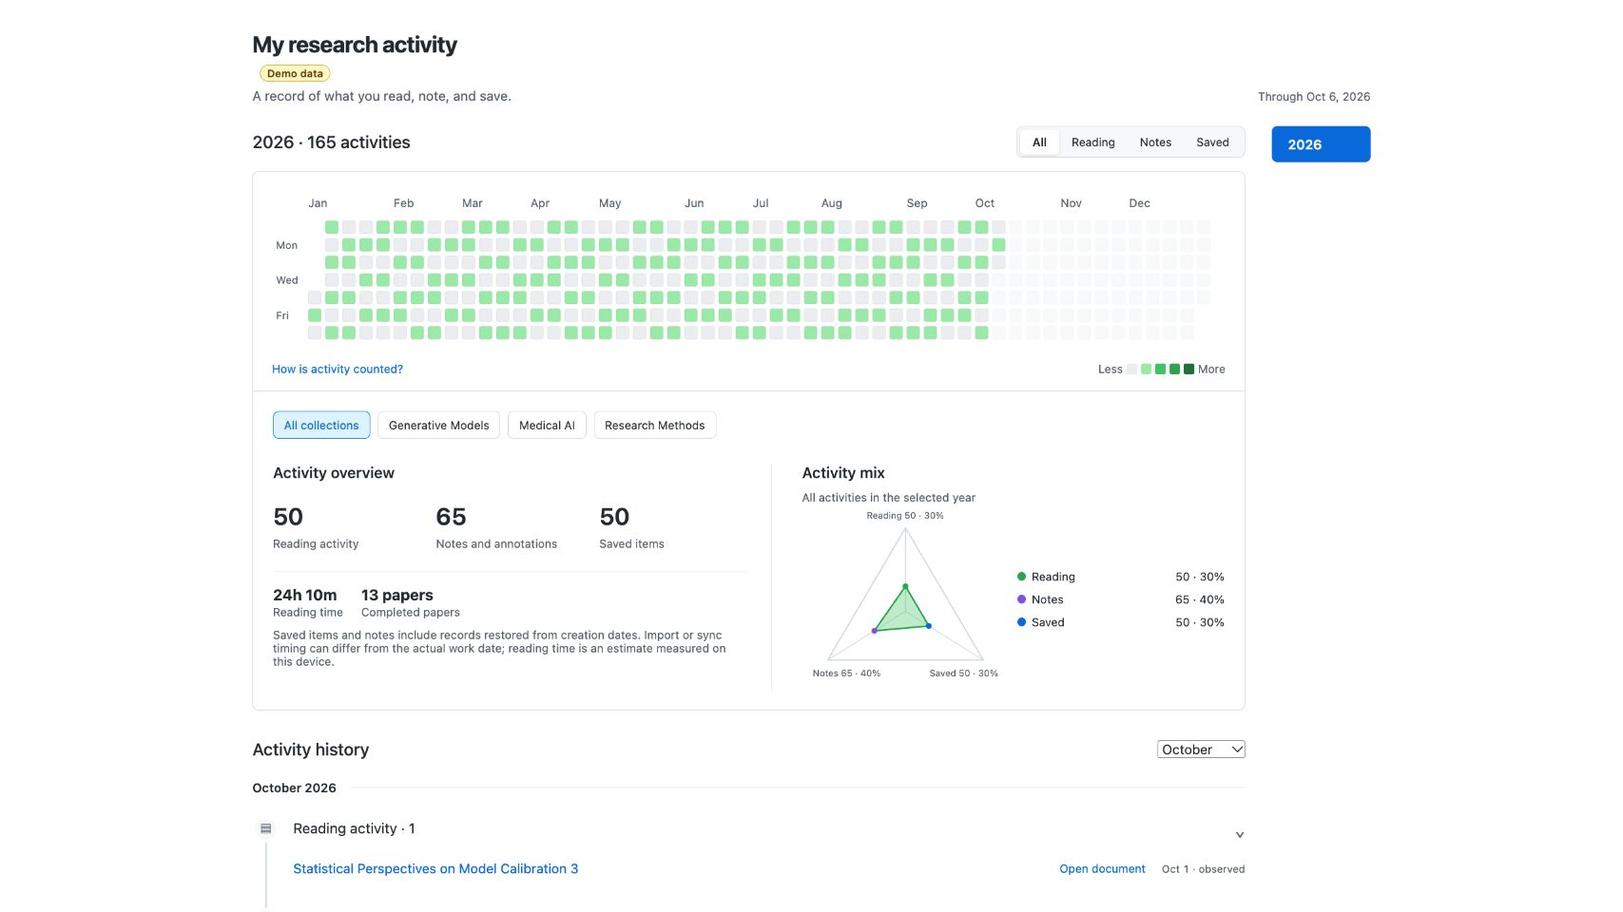
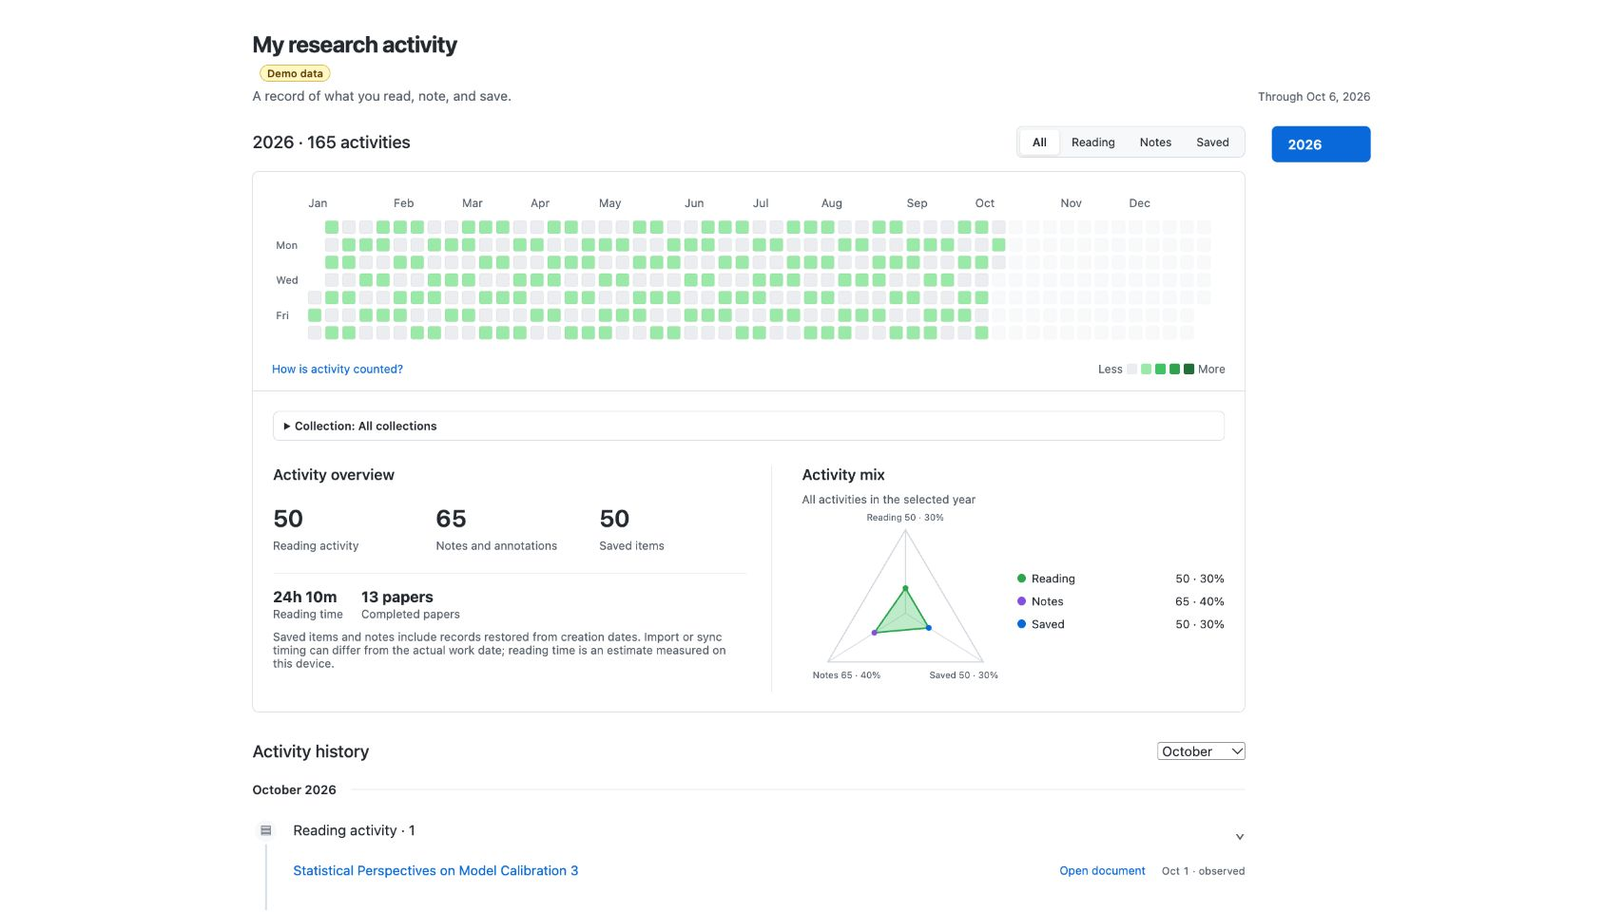
feat: add hierarchical collection picker

diff --git a/activity.css b/activity.css
@@ -1,1 +1,1 @@
-:root{--ra-ink:#24292f;--ra-muted:#57606a;--ra-line:#d0d7de;--ra-soft:#f6f8fa;--ra-blue:#0969da;--ra-green-0:#ebedf0;--ra-green-1:#9be9a8;--ra-green-2:#40c463;--ra-green-3:#30a14e;--ra-green-4:#216e39;--ra-note:#8250df;--ra-save:#0969da}*{box-sizing:border-box}body{margin:0;background:#fff;color:var(--ra-ink);font:14px -apple-system,BlinkMacSystemFont,"Segoe UI",sans-serif}button,select{font:inherit;color:inherit;cursor:pointer}button:focus-visible,select:focus-visible,a:focus-visible{outline:3px solid var(--ra-blue);outline-offset:2px}.ra-page{max-width:1240px;margin:0 auto;padding:32px}.ra-heading{display:flex;align-items:end;justify-content:space-between;gap:20px;margin-bottom:24px}.ra-heading h1{font-size:24px;letter-spacing:-.5px;margin:0 0 7px}.ra-heading p{margin:0;color:var(--ra-muted)}.ra-layout{display:grid;grid-template-columns:minmax(0,1fr) 104px;gap:28px}.ra-topline,.ra-timeline-head{display:flex;align-items:center;justify-content:space-between;gap:16px;margin-bottom:14px}.ra-topline h2,.ra-timeline-head h2{font-size:18px;font-weight:500;margin:0}.ra-filters{display:flex;padding:3px;border:1px solid var(--ra-line);border-radius:7px;background:var(--ra-soft)}.ra-filters button{border:0;border-radius:4px;background:transparent;padding:6px 13px;font-size:12px}.ra-filters button[aria-pressed="true"]{background:#fff;box-shadow:0 1px 3px #0002;font-weight:600}.ra-panel{border:1px solid var(--ra-line);border-radius:7px;overflow:hidden}.ra-heatmap{padding:23px 20px 16px}.ra-calendar{overflow-x:auto}.ra-calendar svg{display:block;width:100%;min-width:720px}.ra-calendar-cell{cursor:pointer;stroke:#1f23280d;stroke-width:1}.ra-calendar-cell:hover,.ra-calendar-cell:focus{stroke:var(--ra-ink);stroke-width:1.5;outline:none}.ra-calendar-cell[data-selected="true"]{stroke:var(--ra-blue);stroke-width:2}.ra-calendar-cell[data-future="true"]{cursor:default;opacity:.35}.ra-legend-row{display:flex;justify-content:space-between;align-items:center;gap:10px;margin-top:13px;color:var(--ra-muted);font-size:12px}.ra-legend{display:flex;align-items:center;gap:4px;white-space:nowrap}.ra-swatch{width:11px;height:11px;border-radius:2px}.ra-link{border:0;padding:0;background:transparent;color:var(--ra-blue)}.ra-overview{border-top:1px solid var(--ra-line);padding:21px}.ra-collections{display:flex;gap:8px;flex-wrap:wrap;margin-bottom:26px}.ra-chip,.ra-button{border:1px solid var(--ra-line);border-radius:6px;background:#fff;padding:7px 11px;font-size:12px}.ra-chip[aria-pressed="true"]{border-color:var(--ra-blue);background:#ddf4ff;color:var(--ra-blue)}.ra-summary{display:grid;grid-template-columns:1.18fr 1fr;gap:32px}.ra-summary-left{border-right:1px solid var(--ra-line);padding-right:25px}.ra-summary h3{font-size:16px;font-weight:550;margin:0}.ra-stats{display:grid;grid-template-columns:repeat(3,1fr);gap:16px;margin:22px 0}.ra-stat b{display:block;font-size:25px;font-weight:600;font-variant-numeric:tabular-nums;margin-bottom:5px}.ra-stat span,.ra-small{font-size:12px;color:var(--ra-muted)}.ra-completion{display:flex;gap:19px;border-top:1px solid #eaeef2;padding-top:15px}.ra-completion b{display:block;font-size:16px}.ra-ratio-copy{margin:10px 0 0;color:var(--ra-muted);font-size:12px}.ra-triangle-wrap{display:grid;grid-template-columns:minmax(210px,1fr) minmax(160px,1fr);align-items:center;gap:9px;margin-top:4px}.ra-triangle{width:100%;max-width:275px;margin:auto}.ra-triangle text{font-size:11px;fill:var(--ra-muted)}.ra-ratio-list{display:grid;gap:10px}.ra-ratio-item{display:flex;justify-content:space-between;gap:8px;font-size:12px}.ra-ratio-item i{display:inline-block;width:9px;height:9px;border-radius:50%;margin-right:6px}.ra-years button{display:block;width:100%;border:0;border-radius:6px;background:none;text-align:left;padding:11px 17px;margin-bottom:7px;color:var(--ra-muted)}.ra-years button[aria-pressed="true"]{background:var(--ra-blue);color:#fff;font-weight:600}.ra-timeline{margin-top:30px}.ra-month{display:flex;align-items:center;gap:15px;font-size:13px;font-weight:600;margin:22px 0}.ra-month:after{content:"";height:1px;background:var(--ra-line);flex:1}.ra-event{position:relative;margin-left:13px;padding:0 0 25px 28px;border-left:2px solid #d8dee4}.ra-event-icon{position:absolute;left:-15px;top:0;width:28px;height:28px;border:3px solid #fff;border-radius:50%;background:var(--ra-soft);display:grid;place-items:center;color:var(--ra-muted)}.ra-event summary{display:flex;justify-content:space-between;gap:10px;cursor:pointer;padding-top:4px;font-size:15px;list-style:none}.ra-event summary:after{content:"⌄";font-size:18px;color:var(--ra-muted)}.ra-activity-list{margin-top:13px}.ra-activity{display:grid;grid-template-columns:minmax(0,1fr) auto auto;align-items:center;gap:14px;padding:7px 0}.ra-activity-title{border:0;background:transparent;padding:0;text-align:left;color:var(--ra-blue);white-space:nowrap;overflow:hidden;text-overflow:ellipsis}.ra-action{border:0;background:transparent;color:var(--ra-blue);font-size:12px;padding:3px}.ra-date{font-size:11px;color:var(--ra-muted);font-variant-numeric:tabular-nums}.ra-empty,.ra-error{padding:26px 0;color:var(--ra-muted)}.ra-error{color:#cf222e}.ra-error .ra-button{margin-left:12px}.ra-dialog{border:1px solid var(--ra-line);border-radius:10px;max-width:520px;padding:24px;box-shadow:0 15px 70px #0002}.ra-dialog::backdrop{background:#1f23284d}.ra-dialog h3{margin-top:0}.ra-dialog p{line-height:1.6;color:var(--ra-muted)}.ra-dialog .ra-button{float:right}.ra-tooltip{position:fixed;display:none;z-index:4;pointer-events:none;padding:8px 10px;background:#24292f;color:#fff;border-radius:6px;font-size:12px;box-shadow:0 3px 12px #0002}.ra-hidden{display:none!important}@media(max-width:900px){.ra-page{padding:22px 18px}.ra-heading{align-items:start;flex-direction:column}.ra-layout{grid-template-columns:1fr;gap:12px}.ra-years{display:flex;gap:8px;overflow-x:auto;grid-row:1}.ra-years button{width:auto;padding:8px 18px;white-space:nowrap}.ra-topline{align-items:start;flex-direction:column}.ra-summary{grid-template-columns:1fr;gap:24px}.ra-summary-left{padding:0;border-right:0}.ra-triangle-wrap{grid-template-columns:1fr}.ra-heatmap{padding:19px 13px}.ra-stats{gap:10px}.ra-calendar-cell{min-height:12px}}
+:root{--ra-ink:#24292f;--ra-muted:#57606a;--ra-line:#d0d7de;--ra-soft:#f6f8fa;--ra-blue:#0969da;--ra-green-0:#ebedf0;--ra-green-1:#9be9a8;--ra-green-2:#40c463;--ra-green-3:#30a14e;--ra-green-4:#216e39;--ra-note:#8250df;--ra-save:#0969da}*{box-sizing:border-box}body{margin:0;background:#fff;color:var(--ra-ink);font:14px -apple-system,BlinkMacSystemFont,"Segoe UI",sans-serif}button,select{font:inherit;color:inherit;cursor:pointer}button:focus-visible,select:focus-visible,a:focus-visible{outline:3px solid var(--ra-blue);outline-offset:2px}.ra-page{max-width:1240px;margin:0 auto;padding:32px}.ra-heading{display:flex;align-items:end;justify-content:space-between;gap:20px;margin-bottom:24px}.ra-heading h1{font-size:24px;letter-spacing:-.5px;margin:0 0 7px}.ra-heading p{margin:0;color:var(--ra-muted)}.ra-layout{display:grid;grid-template-columns:minmax(0,1fr) 104px;gap:28px}.ra-topline,.ra-timeline-head{display:flex;align-items:center;justify-content:space-between;gap:16px;margin-bottom:14px}.ra-topline h2,.ra-timeline-head h2{font-size:18px;font-weight:500;margin:0}.ra-filters{display:flex;padding:3px;border:1px solid var(--ra-line);border-radius:7px;background:var(--ra-soft)}.ra-filters button{border:0;border-radius:4px;background:transparent;padding:6px 13px;font-size:12px}.ra-filters button[aria-pressed="true"]{background:#fff;box-shadow:0 1px 3px #0002;font-weight:600}.ra-panel{border:1px solid var(--ra-line);border-radius:7px;overflow:hidden}.ra-heatmap{padding:23px 20px 16px}.ra-calendar{overflow-x:auto}.ra-calendar svg{display:block;width:100%;min-width:720px}.ra-calendar-cell{cursor:pointer;stroke:#1f23280d;stroke-width:1}.ra-calendar-cell:hover,.ra-calendar-cell:focus{stroke:var(--ra-ink);stroke-width:1.5;outline:none}.ra-calendar-cell[data-selected="true"]{stroke:var(--ra-blue);stroke-width:2}.ra-calendar-cell[data-future="true"]{cursor:default;opacity:.35}.ra-legend-row{display:flex;justify-content:space-between;align-items:center;gap:10px;margin-top:13px;color:var(--ra-muted);font-size:12px}.ra-legend{display:flex;align-items:center;gap:4px;white-space:nowrap}.ra-swatch{width:11px;height:11px;border-radius:2px}.ra-link{border:0;padding:0;background:transparent;color:var(--ra-blue)}.ra-overview{border-top:1px solid var(--ra-line);padding:21px}.ra-collections{display:flex;gap:8px;flex-wrap:wrap;margin-bottom:26px}.ra-chip,.ra-button{border:1px solid var(--ra-line);border-radius:6px;background:#fff;padding:7px 11px;font-size:12px}.ra-chip[aria-pressed="true"]{border-color:var(--ra-blue);background:#ddf4ff;color:var(--ra-blue)}.ra-summary{display:grid;grid-template-columns:1.18fr 1fr;gap:32px}.ra-summary-left{border-right:1px solid var(--ra-line);padding-right:25px}.ra-summary h3{font-size:16px;font-weight:550;margin:0}.ra-stats{display:grid;grid-template-columns:repeat(3,1fr);gap:16px;margin:22px 0}.ra-stat b{display:block;font-size:25px;font-weight:600;font-variant-numeric:tabular-nums;margin-bottom:5px}.ra-stat span,.ra-small{font-size:12px;color:var(--ra-muted)}.ra-completion{display:flex;gap:19px;border-top:1px solid #eaeef2;padding-top:15px}.ra-completion b{display:block;font-size:16px}.ra-ratio-copy{margin:10px 0 0;color:var(--ra-muted);font-size:12px}.ra-triangle-wrap{display:grid;grid-template-columns:minmax(210px,1fr) minmax(160px,1fr);align-items:center;gap:9px;margin-top:4px}.ra-triangle{width:100%;max-width:275px;margin:auto}.ra-triangle text{font-size:11px;fill:var(--ra-muted)}.ra-ratio-list{display:grid;gap:10px}.ra-ratio-item{display:flex;justify-content:space-between;gap:8px;font-size:12px}.ra-ratio-item i{display:inline-block;width:9px;height:9px;border-radius:50%;margin-right:6px}.ra-years button{display:block;width:100%;border:0;border-radius:6px;background:none;text-align:left;padding:11px 17px;margin-bottom:7px;color:var(--ra-muted)}.ra-years button[aria-pressed="true"]{background:var(--ra-blue);color:#fff;font-weight:600}.ra-timeline{margin-top:30px}.ra-month{display:flex;align-items:center;gap:15px;font-size:13px;font-weight:600;margin:22px 0}.ra-month:after{content:"";height:1px;background:var(--ra-line);flex:1}.ra-event{position:relative;margin-left:13px;padding:0 0 25px 28px;border-left:2px solid #d8dee4}.ra-event-icon{position:absolute;left:-15px;top:0;width:28px;height:28px;border:3px solid #fff;border-radius:50%;background:var(--ra-soft);display:grid;place-items:center;color:var(--ra-muted)}.ra-event summary{display:flex;justify-content:space-between;gap:10px;cursor:pointer;padding-top:4px;font-size:15px;list-style:none}.ra-event summary:after{content:"⌄";font-size:18px;color:var(--ra-muted)}.ra-activity-list{margin-top:13px}.ra-activity{display:grid;grid-template-columns:minmax(0,1fr) auto auto;align-items:center;gap:14px;padding:7px 0}.ra-activity-title{border:0;background:transparent;padding:0;text-align:left;color:var(--ra-blue);white-space:nowrap;overflow:hidden;text-overflow:ellipsis}.ra-action{border:0;background:transparent;color:var(--ra-blue);font-size:12px;padding:3px}.ra-date{font-size:11px;color:var(--ra-muted);font-variant-numeric:tabular-nums}.ra-empty,.ra-error{padding:26px 0;color:var(--ra-muted)}.ra-error{color:#cf222e}.ra-error .ra-button{margin-left:12px}.ra-dialog{border:1px solid var(--ra-line);border-radius:10px;max-width:520px;padding:24px;box-shadow:0 15px 70px #0002}.ra-dialog::backdrop{background:#1f23284d}.ra-dialog h3{margin-top:0}.ra-dialog p{line-height:1.6;color:var(--ra-muted)}.ra-dialog .ra-button{float:right}.ra-tooltip{position:fixed;display:none;z-index:4;pointer-events:none;padding:8px 10px;background:#24292f;color:#fff;border-radius:6px;font-size:12px;box-shadow:0 3px 12px #0002}.ra-hidden{display:none!important}@media(max-width:900px){.ra-page{padding:22px 18px}.ra-heading{align-items:start;flex-direction:column}.ra-layout{grid-template-columns:1fr;gap:12px}.ra-years{display:flex;gap:8px;overflow-x:auto;grid-row:1}.ra-years button{width:auto;padding:8px 18px;white-space:nowrap}.ra-topline{align-items:start;flex-direction:column}.ra-summary{grid-template-columns:1fr;gap:24px}.ra-summary-left{padding:0;border-right:0}.ra-triangle-wrap{grid-template-columns:1fr}.ra-heatmap{padding:19px 13px}.ra-stats{gap:10px}.ra-calendar-cell{min-height:12px}}.ra-collection-picker{display:block;margin:0 0 26px;border:1px solid var(--ra-line);border-radius:6px;background:#fff}.ra-collection-picker>summary{padding:8px 11px;cursor:pointer;font-size:12px;font-weight:600}.ra-collection-picker>summary:focus-visible,.ra-collection-branch>summary:focus-visible{outline:3px solid var(--ra-blue);outline-offset:2px}.ra-collection-choices{max-height:280px;overflow:auto;padding:6px 8px 8px;border-top:1px solid var(--ra-line)}.ra-collection-branch{margin:4px 0}.ra-collection-branch>summary{padding:6px 4px;cursor:pointer;font-size:12px}.ra-collection-select:hover,.ra-collection-select[aria-pressed="true"]{background:#ddf4ff!important;color:var(--ra-blue)}.ra-collection-branch-content{padding-left:16px}.ra-collection-select{display:block;width:100%;border:0;border-radius:4px;background:transparent;padding:6px 8px;text-align:left;font-size:12px}.ra-collection-picker summary:focus-visible,.ra-collection-branch summary:focus-visible{outline:3px solid var(--ra-blue);outline-offset:2px}

diff --git a/activityView.js b/activityView.js
@@ -6,7 +6,7 @@
     var snapshot;
     var handlers = {};
     var state = { year: null, collection: "all", type: "all", month: null, date: null };
-    var viewMemory = { scrollTop: 0, open: {} };
+    var viewMemory = { scrollTop: 0, open: {}, collectionPickerOpen: false, collectionBranches: {} };
     var labels = { all: "All", read: "Reading", note: "Notes", save: "Saved" };
     var colors = { read: "#2da44e", note: "#8250df", save: "#0969da" };
     var icons = { read: "▤", note: "✎", save: "＋" };
@@ -77,6 +77,12 @@
         Array.prototype.forEach.call(root.querySelectorAll("details[data-type]"), function (details) {
             viewMemory.open[details.getAttribute("data-type")] = details.open;
         });
+        var picker = root.querySelector("details[data-collection-picker]");
+        if (picker && !viewMemory.forceCollectionPickerClosed) viewMemory.collectionPickerOpen = picker.open;
+        viewMemory.collectionBranches = {};
+        Array.prototype.forEach.call(root.querySelectorAll("details[data-collection-branch]"), function (details) {
+            viewMemory.collectionBranches[details.getAttribute("data-collection-branch")] = details.open;
+        });
     }
     function set(next, save) {
         rememberView();
@@ -109,6 +115,30 @@
             });
         }
         return wanted;
+    }
+    function collectionTree() {
+        var byKey = {}, roots = [], children = {};
+        collections().forEach(function (collection) { byKey[collection.key] = collection; children[collection.key] = []; });
+        Object.keys(byKey).forEach(function (key) {
+            var collection = byKey[key], parent = byKey[collection.parentKey], cursor = collection.parentKey, seen = {};
+            while (cursor && byKey[cursor] && !seen[cursor]) { seen[cursor] = true; cursor = byKey[cursor].parentKey; }
+            if (parent && !seen[key]) children[collection.parentKey].push(collection);
+            else roots.push(collection);
+        });
+        function sort(items) { return items.sort(function (a, b) { return String(a.name || a.key).localeCompare(String(b.name || b.key)); }); }
+        Object.keys(children).forEach(function (key) { sort(children[key]); });
+        return { roots: sort(roots), children: children, byKey: byKey };
+    }
+    function collectionPath(key) {
+        if (key === "all") return "All collections";
+        var tree = collectionTree(), path = [], seen = {}, current = tree.byKey[key];
+        while (current && !seen[current.key]) { path.unshift(current.name || current.key); seen[current.key] = true; current = tree.byKey[current.parentKey]; }
+        return path.length ? path.join(" / ") : "All collections";
+    }
+    function collectionAncestors(key) {
+        var tree = collectionTree(), result = {}, seen = {}, current = tree.byKey[key];
+        while (current && !seen[current.key]) { result[current.key] = true; seen[current.key] = true; current = tree.byKey[current.parentKey]; }
+        return result;
     }
     function itemMap() {
         var map = {};
@@ -246,10 +276,7 @@
     }
     function buildOverview(panel) {
         var overview = node("section", { class: "ra-overview" });
-        var chips = node("div", { class: "ra-collections", "aria-label": "Collections" });
-        appendButton(chips, "All collections", { class: "ra-chip", "aria-pressed": state.collection === "all" }, function () { set({ collection: "all", date: null }); });
-        collections().forEach(function (collection) { appendButton(chips, collection.name || collection.key, { class: "ra-chip", "aria-pressed": state.collection === collection.key }, function () { set({ collection: collection.key, date: null }); }); });
-        overview.appendChild(chips);
+        overview.appendChild(buildCollectionPicker());
         var summary = node("div", { class: "ra-summary" });
         var left = node("div", { class: "ra-summary-left" });
         left.appendChild(node("h3", {}, "Activity overview"));
@@ -274,6 +301,36 @@
         summary.appendChild(ratio);
         overview.appendChild(summary);
         panel.appendChild(overview);
+    }
+    function chooseCollection(key) {
+        viewMemory.collectionPickerOpen = false;
+        viewMemory.forceCollectionPickerClosed = true;
+        set({ collection: key, date: null });
+        viewMemory.forceCollectionPickerClosed = false;
+    }
+    function buildCollectionPicker() {
+        var picker = node("details", { class: "ra-collection-picker", open: viewMemory.collectionPickerOpen, "data-collection-picker": "true" });
+        picker.appendChild(node("summary", {}, "Collection: " + collectionPath(state.collection)));
+        var choices = node("div", { class: "ra-collection-choices", "aria-label": "Collection picker" });
+        appendButton(choices, "All collections", { class: "ra-collection-select", "aria-pressed": state.collection === "all" }, function () { chooseCollection("all"); });
+        var tree = collectionTree(), ancestors = collectionAncestors(state.collection);
+        function appendBranch(container, collection) {
+            var childItems = tree.children[collection.key] || [];
+            if (!childItems.length) {
+                appendButton(container, collection.name || collection.key, { class: "ra-collection-select", "aria-pressed": state.collection === collection.key }, function () { chooseCollection(collection.key); });
+                return;
+            }
+            var open = ancestors[collection.key] || viewMemory.collectionBranches[collection.key];
+            var details = node("details", { class: "ra-collection-branch", open: !!open, "data-collection-branch": collection.key });
+            details.appendChild(node("summary", {}, collection.name || collection.key));
+            var content = node("div", { class: "ra-collection-branch-content" });
+            appendButton(content, "Select " + (collection.name || collection.key), { class: "ra-collection-select", "aria-pressed": state.collection === collection.key }, function () { chooseCollection(collection.key); });
+            childItems.forEach(function (child) { appendBranch(content, child); });
+            details.appendChild(content); container.appendChild(details);
+        }
+        tree.roots.forEach(function (collection) { appendBranch(choices, collection); });
+        picker.appendChild(choices);
+        return picker;
     }
     function buildTriangle(counts) {
         var ratios = ratioCounts(counts);
@@ -411,8 +468,12 @@
         var days = [];
         var cursor;
         var paperTitles = ["A Practical Guide to Generative Models", "Reliable Evaluation for Clinical AI", "Representation Learning in Medical Imaging", "Efficient Methods for Scientific Machine Learning", "Interpretable Models for Biomedical Data", "Foundations of Probabilistic Deep Learning", "Robust Validation for Machine Learning Systems", "Multimodal Learning for Health Research", "A Survey of Agentic AI Systems", "Statistical Perspectives on Model Calibration"];
-        var collectionKeys = ["models", "medical", "methods"];
-        var collectionsDemo = [{ key: "models", name: "Generative Models" }, { key: "medical", name: "Medical AI" }, { key: "methods", name: "Research Methods" }];
+        var collectionKeys = ["diffusion", "flow", "imaging", "agents", "evaluation"];
+        var collectionsDemo = [
+            { key: "models", name: "Generative Models" }, { key: "diffusion", name: "Diffusion", parentKey: "models" }, { key: "flow", name: "Flow Models", parentKey: "models" },
+            { key: "medical", name: "Medical AI" }, { key: "imaging", name: "Imaging", parentKey: "medical" }, { key: "agents", name: "Clinical Agents", parentKey: "medical" },
+            { key: "methods", name: "Research Methods" }, { key: "evaluation", name: "Evaluation", parentKey: "methods" }
+        ];
         var itemsDemo = [], recordsDemo = [], readingDemo = [];
         for (cursor = new Date(first); localISO(cursor) <= todayValue; cursor.setDate(cursor.getDate() + 1)) days.push(localISO(cursor));
         for (var itemIndex = 0; itemIndex < 50; itemIndex++) {

diff --git a/README.md b/README.md
@@ -1,4 +1,4 @@
-# Zotero Research Activity · v0.2.1
+# Zotero Research Activity · v0.2.2
 
 **A private, GitHub-style activity page for your Zotero library.**
 
@@ -6,7 +6,7 @@ Zotero Research Activity brings reading, notes, annotations, saved papers, and c
 
 ![Research Activity overview](assets/research-activity-overview.png)
 
-The screenshots use synthetic demo data. This plugin does not upload your library or activity records.
+The screenshots use synthetic demo data, including fictional collections and paper titles. This plugin does not upload your library or activity records.
 
 ## Install
 
@@ -21,12 +21,18 @@ The activity page opens inside Zotero. Reopening it selects the existing tab.
 ## What it shows
 
 - A year-long activity calendar with **All**, **Reading**, **Notes**, and **Saved** filters.
-- Year and collection filters. A collection includes its current child collections; an item in more than one matching collection is counted once.
+- Year filters and a collapsed, hierarchical collection picker. Expand parent collections to select a nested collection. A collection includes its current child collections; an item in more than one matching collection is counted once.
 - Reading, note, and saved-paper totals, measured reading time, completed-paper count, and a triangular activity-ratio view.
 - A date and month activity timeline. Select a paper to reveal it in the library, open a PDF, or jump to an annotation.
 - A persistent view state, so the selected year, collection, activity filter, and month return after restart.
 
 ![Research Activity details](assets/research-activity-details.png)
+
+## Collection navigation
+
+The picker starts collapsed. Expand a parent to browse its children, or choose **Select parent name** to include the whole branch. Choosing a collection closes the picker and shows its full path.
+
+![Hierarchical collection picker with demo data](assets/research-activity-collections.png)
 
 ## How activity is counted
 

diff --git a/VALIDATION.md b/VALIDATION.md
@@ -6,6 +6,10 @@ The **0.2.0 core activity functionality** was validated on 2026-10-06 with Zoter
 
 The **0.2.1 English interface** was visually checked in the desktop browser with explicitly labeled synthetic demo data. Headings, filters, months, help text, and the activity timeline are in English. The model and view checks passed after the string changes. The screenshots in this repository contain demo data only.
 
+The 0.2.1 English release was also installed and opened in the actual Zotero profile. The installed XPI, downloaded GitHub release, and packaged output were byte-identical. Personal library screenshots were not published.
+
+The **0.2.2 collection picker** was checked in the desktop demo: it starts collapsed, expands parent collections, shows the selected full path, and collapses after selection. Selecting the demo child showed 30 activities; selecting its parent included both children and showed 60. Public assets were audited against the GitHub tree and contain synthetic data only.
+
 ## Results
 
 | Check | Result | Observed evidence |
@@ -53,6 +57,5 @@ python3 scripts/package.py dist/ZoteroResearchActivity.xpi
 - Performance with large libraries.
 - Real OS sleep or a real midnight crossover.
 - Sub-second foreground-window changes; collection observes active state about once per second.
-- End-user library installation and GitHub release publication.
 
 An abnormal forced exit can lose reading time since the last periodic save.
